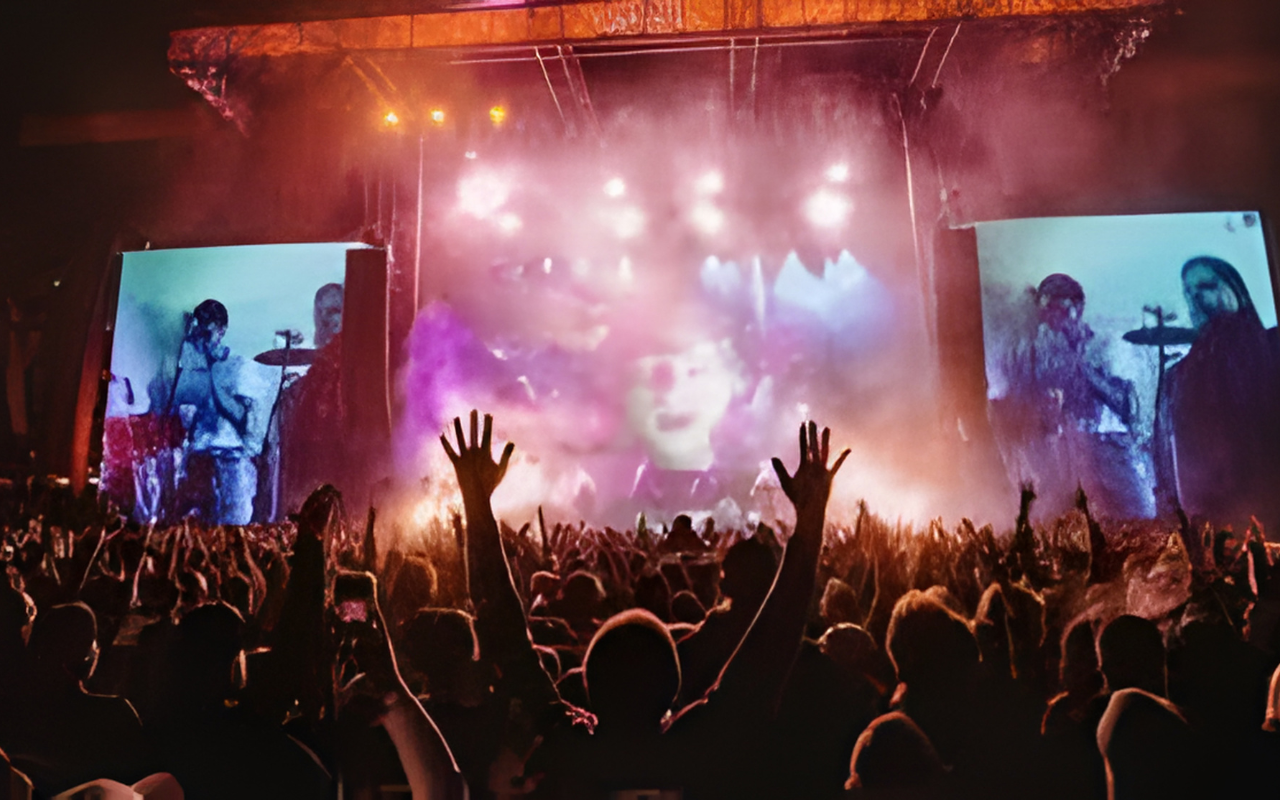
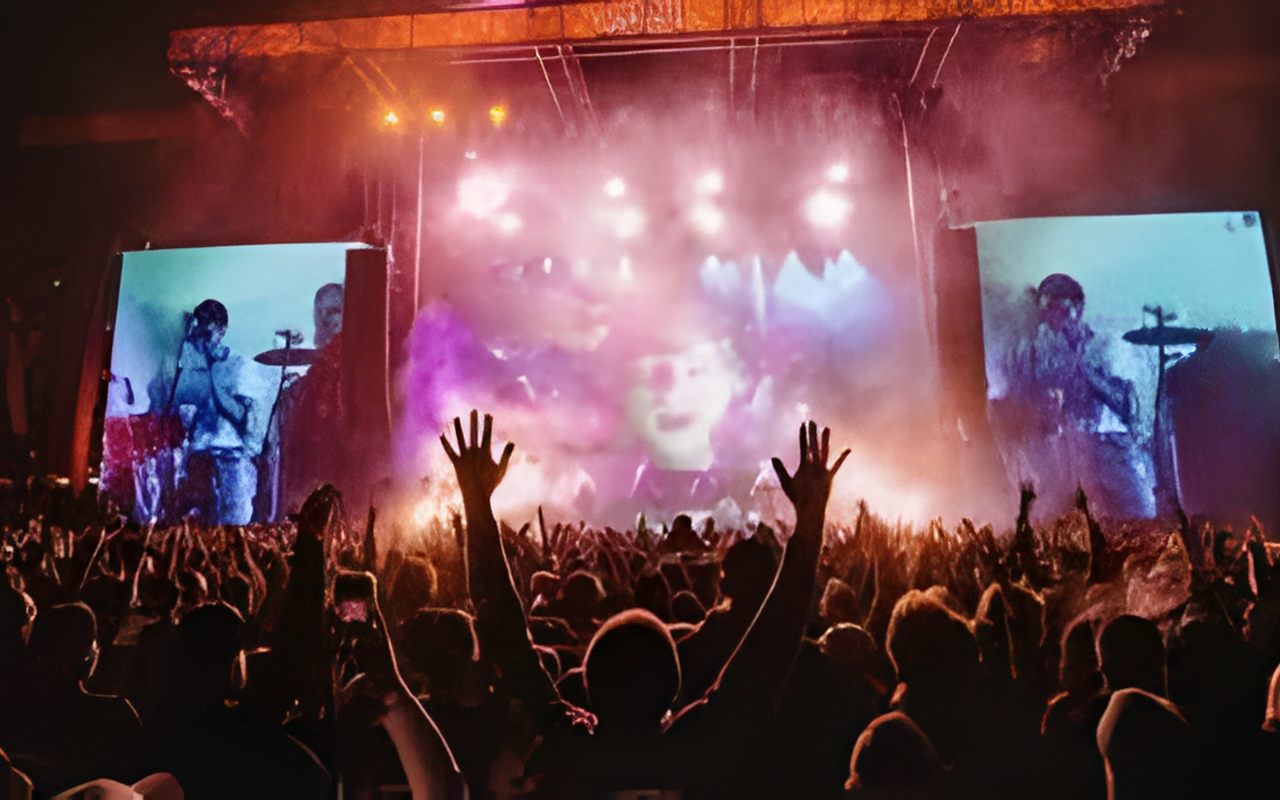
Update concert image, restore exact hero copy

Changed region(s): [[0.9062, 0.3125, 1.0, 0.5938]]

diff --git a/apps/web/public/resonate.html b/apps/web/public/resonate.html
@@ -316,10 +316,11 @@
                 Scaling the Artist's Personal Connection.
               </p>
               <p class="text-lg text-slate-400 mb-10 leading-relaxed">
-                While scale is definitive for growing your business, it often marks the end of real
-                leveraging. For the <strong class="text-white">Resonate Engine</strong>, we make
-                sure it calls on the primacy of a phone call, scaled to the size of a fanbase.
-                Real-time, bi-directional, and authentically voice.
+                While social media platforms gatekeep your audience, Hopwhistle tears down the wall.
+                Leveraging the <strong class="text-white">Resonate Engine</strong>, we enable you to
+                call millions of fans simultaneously-personally and authentically. It's the intimacy
+                of a private phone call, scaled to the size of a stadium tour. Drive real
+                engagement, boost streams, and sell out venues without fighting an algorithm.
               </p>
 
               <!-- Stat Cards -->
